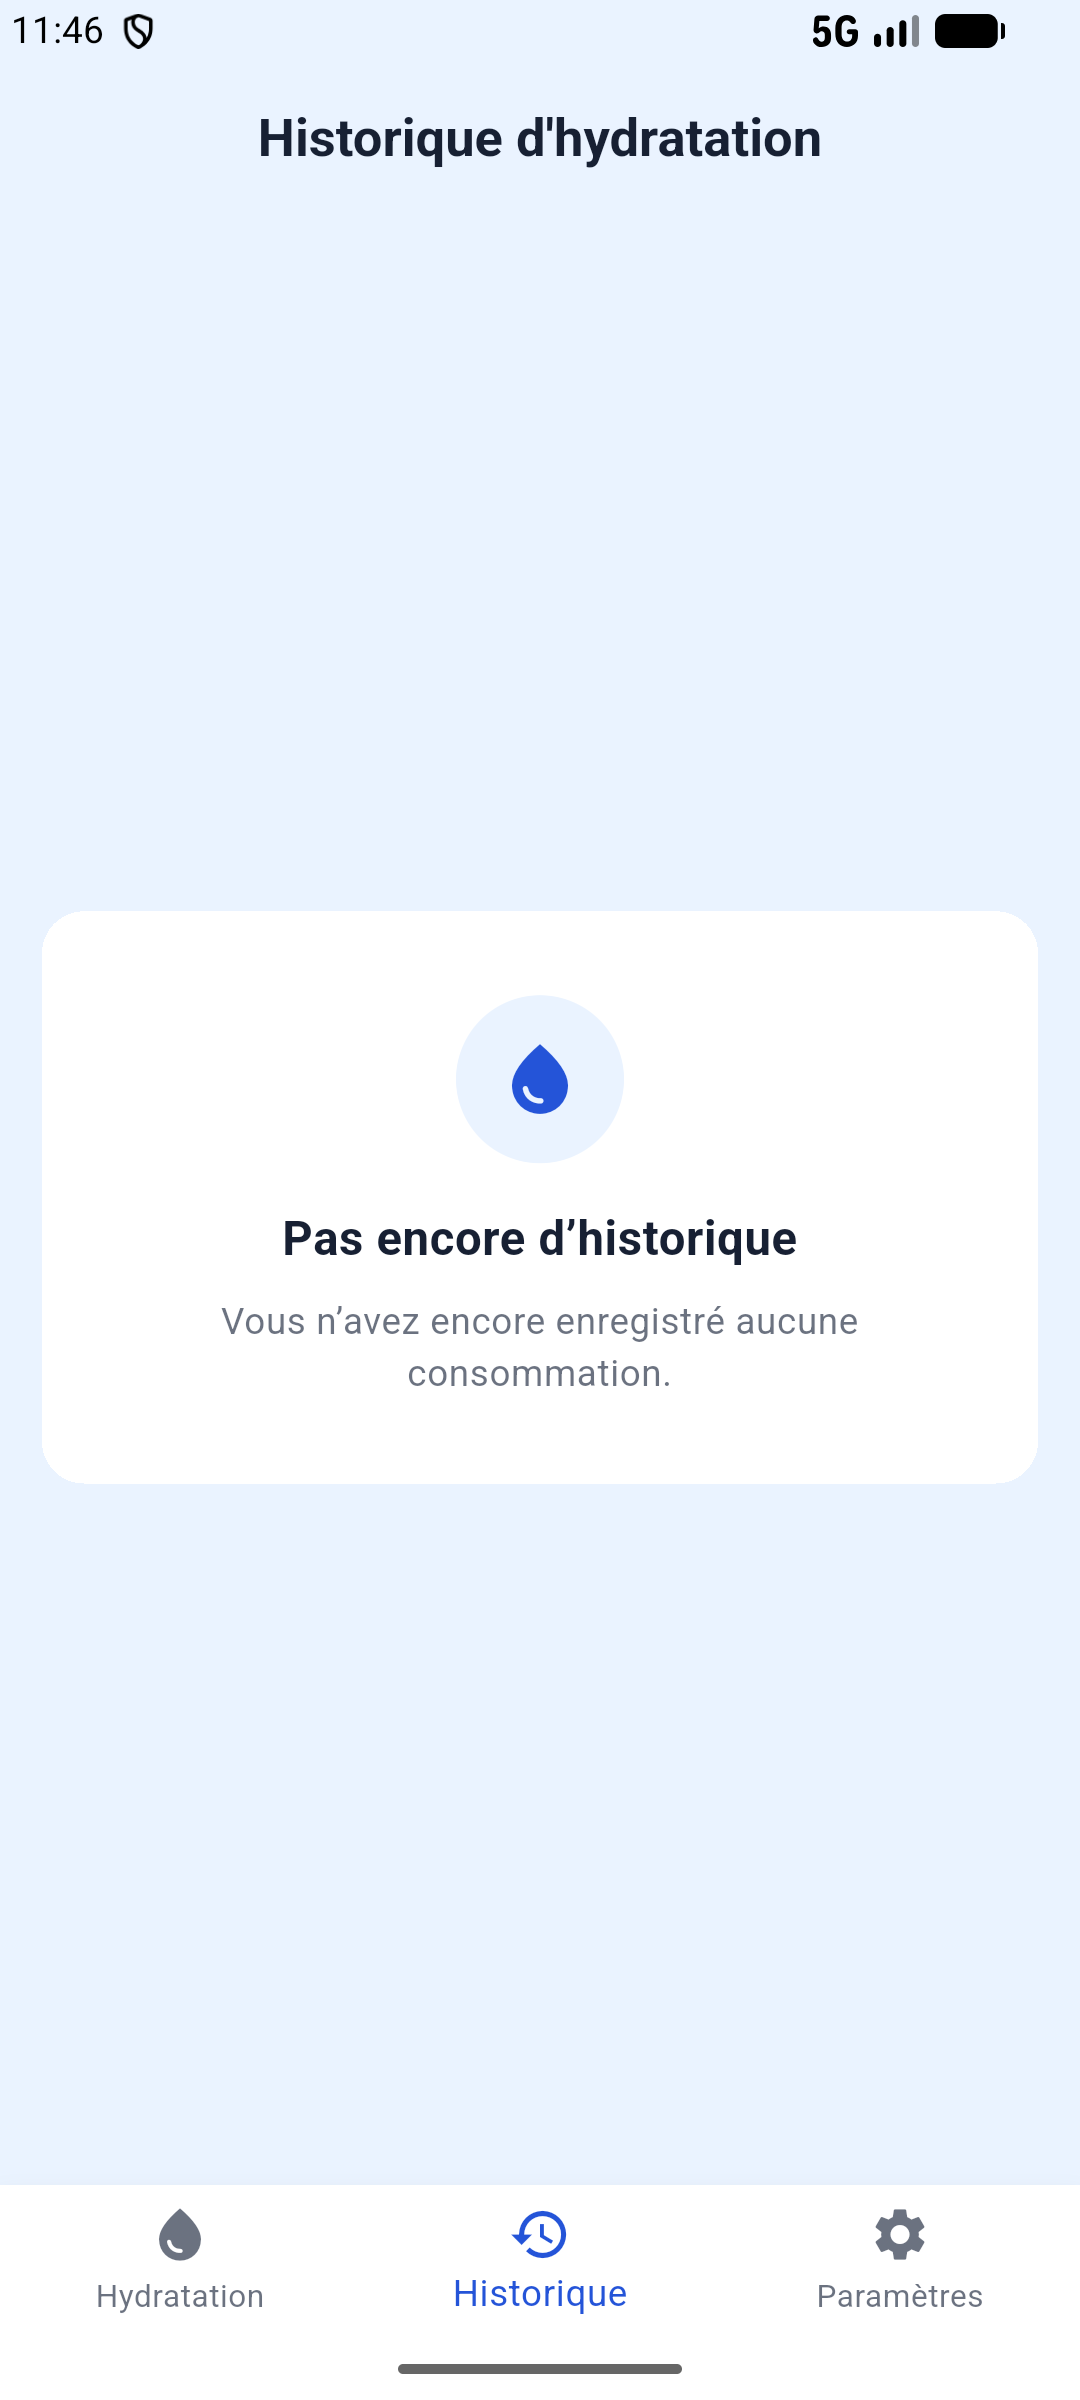
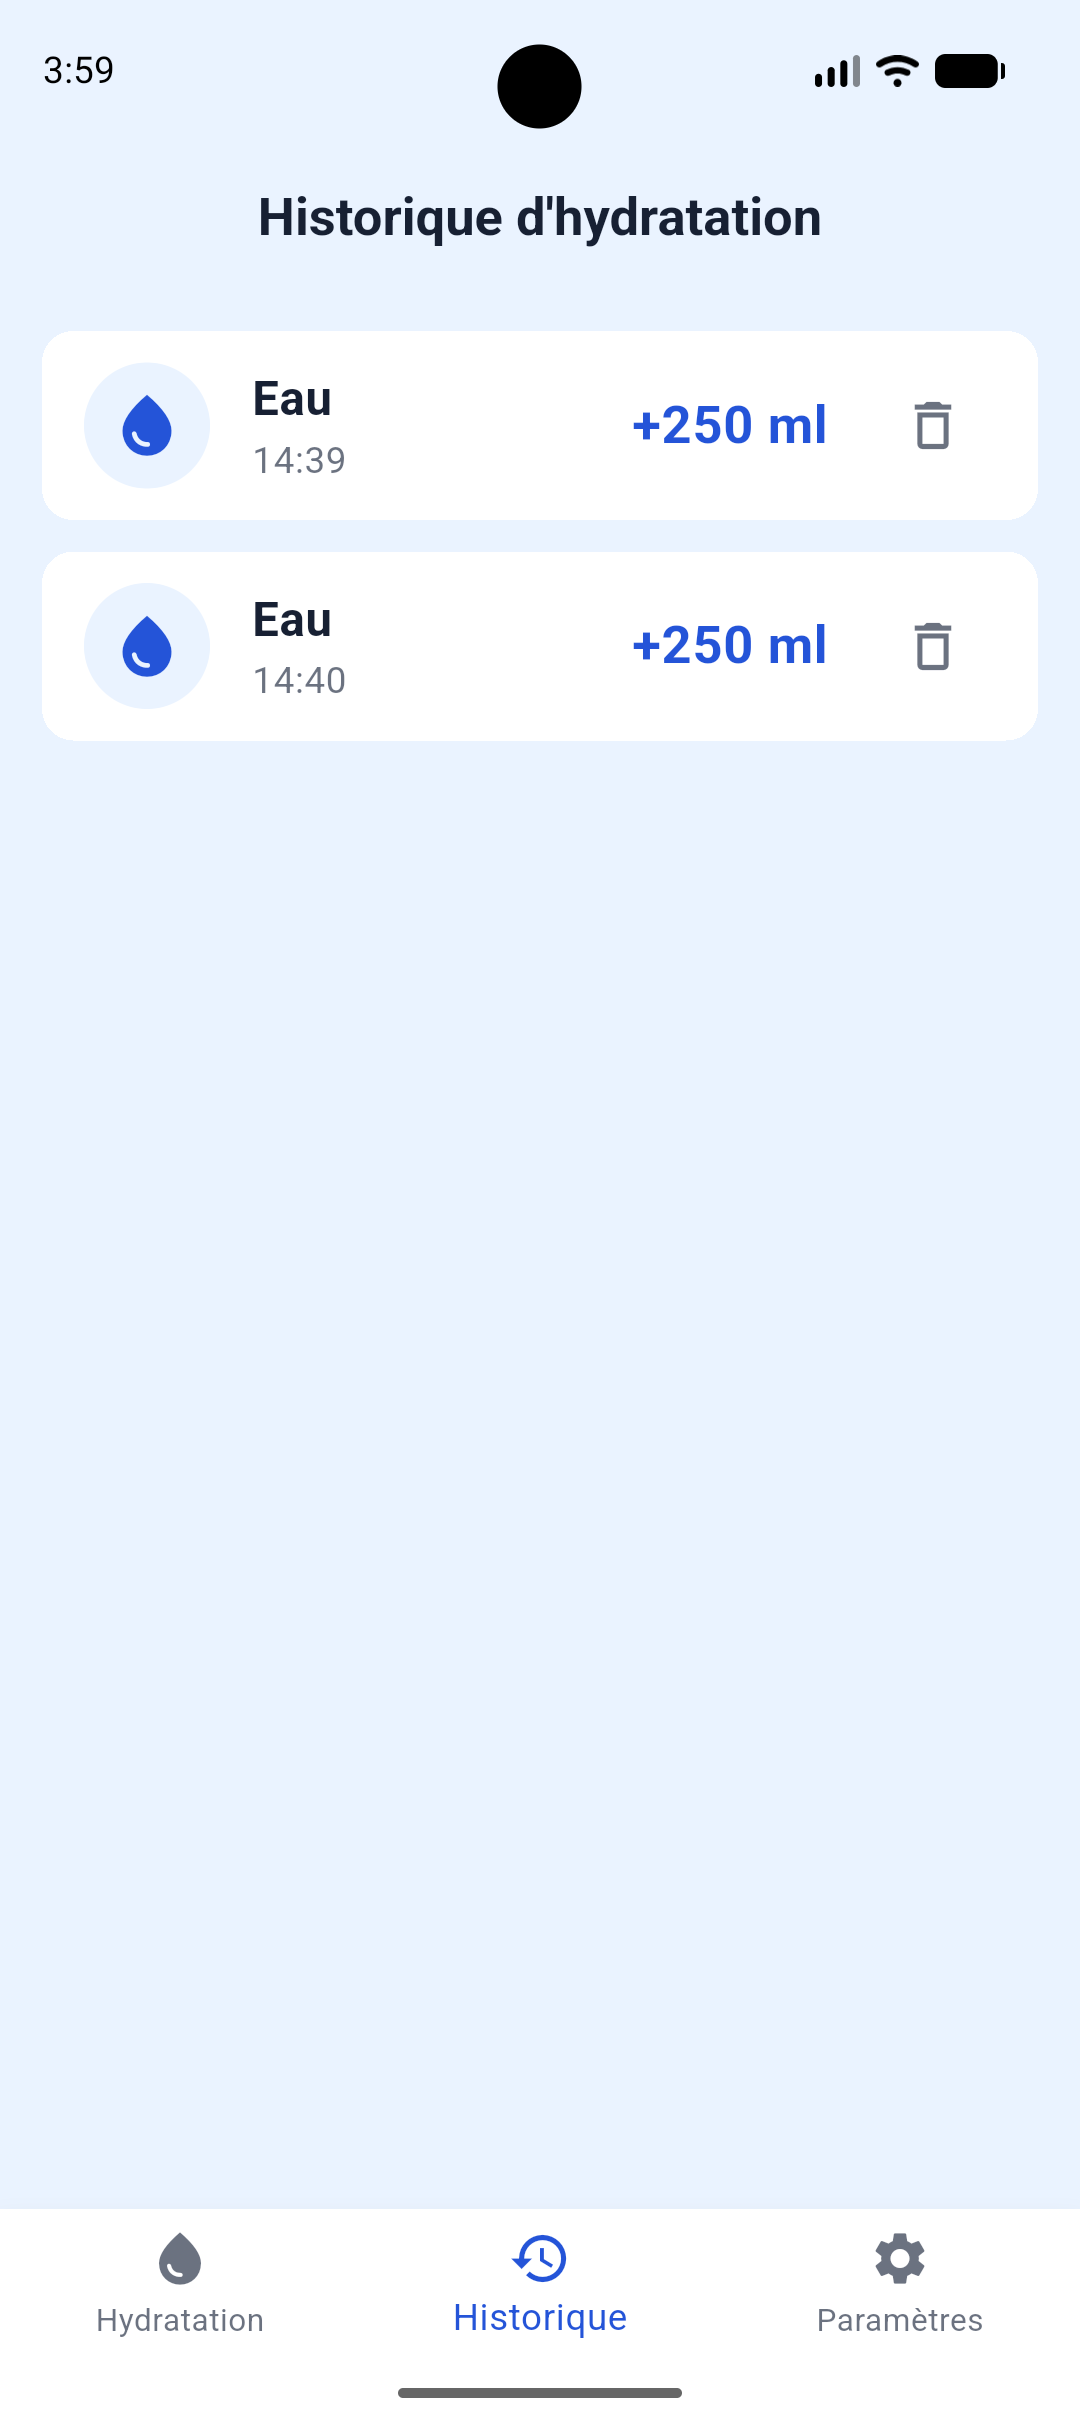
chore: correction de l'architecture de l'application

diff --git a/README.md b/README.md
@@ -59,12 +59,15 @@ lib/
 │   │   └── presentation/       
 │   │
 │   ├── home/                   
-│   │   └── presentation/       
+│   │   ├── data/               
+│   │   ├── domain/             
+│   │   └── presentation/           
 │   │
 │   └── settings/              
-│       ├── domain/             
-│       └── presentation/       
-│
+│      ├── data/               
+│      ├── domain/             
+│      └── presentation/       
+├──main                   
 ```
 ## L'Équipe - Groupe 30
 
